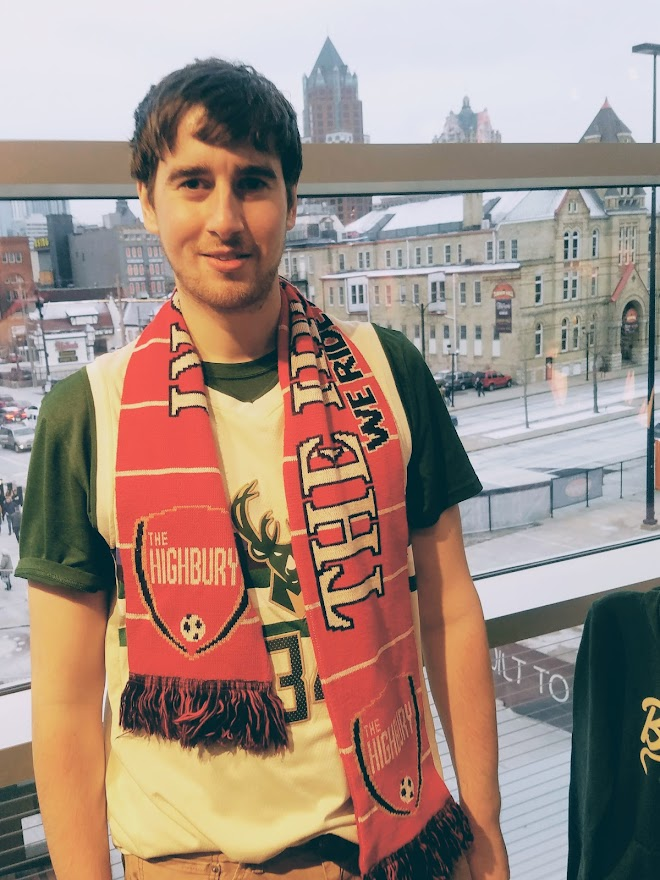
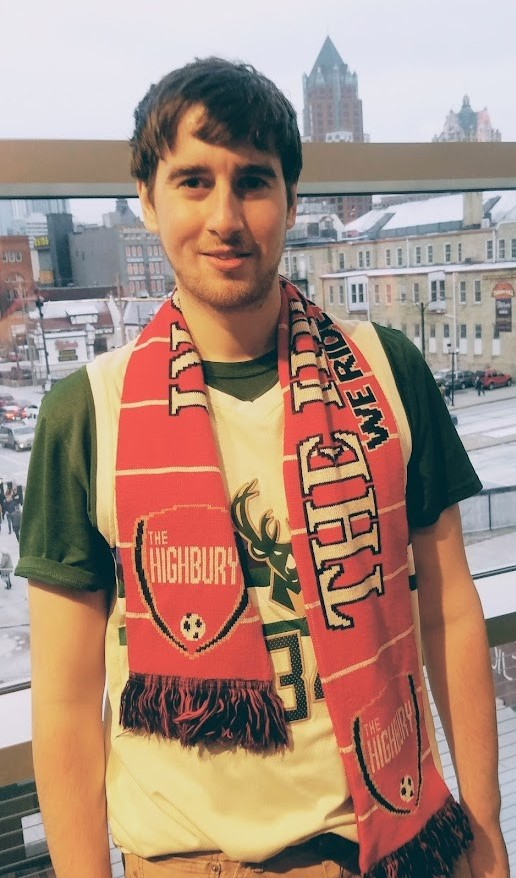
Crops photo

diff --git a/css/about.css b/css/about.css
@@ -1,3 +1,21 @@
 .introduction {
     margin-bottom: 5em;
 }
+
+figure {
+    display: flex;
+    align-items: center;
+    justify-content: center;
+    flex-direction: column;
+    margin-bottom: 6em;
+}
+
+figcaption {
+    margin-top: 1em;
+}
+
+figure img {
+    width: 80%;
+    height: auto;
+    max-width: 400px;
+}
